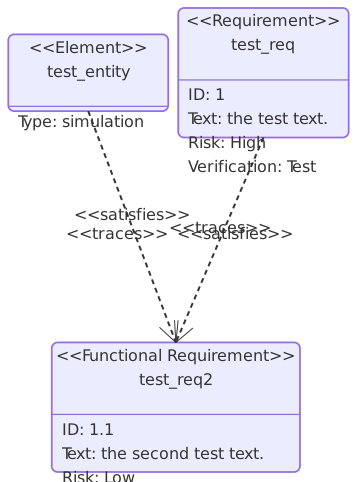
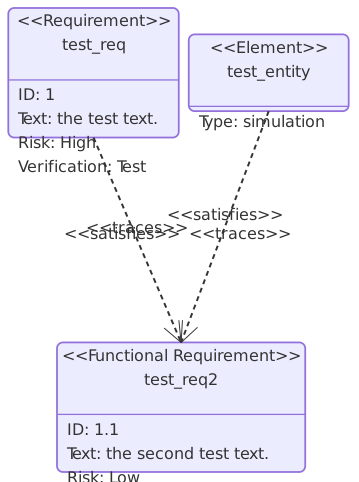
[er] improve ER diagram fidelity: calibrate entity padding, title and row heights to match mmdc
- Adjust entityPadding from 15 to 20, titleH from 42.75 to 24, rowH from 42.75 to 21
- Fix text positioning to use proper center-based offsets instead of font-metric hacks
- Apply anchor/baseline offsets correctly in PNG text overlay
- Add quadrant label text rendering
- Remove ER from mermaid-like DOM path (use direct SVG text instead)
- Update conformance baseline and sample PNGs

Changed region(s): [[0.0, 0.0, 0.9805, 0.5602], [0.1226, 0.5602, 0.8579, 1.0], [0.3983, 0.529, 0.429, 0.5913]]

diff --git a/render.go b/render.go
@@ -875,11 +875,7 @@ func RenderSVG(layout Layout, theme Theme, _ LayoutConfig) string {
 					outerClass = "label-group text"
 				}
 			}
-			textPad := 0.0
-			if layout.Kind == DiagramER && outerClass == "edgeLabel" {
-				textPad = 4.0
-			}
-			textW := max(1.0, measureTextWidthWithFontSize(text.Value, size, false, family)+textPad)
+			textW := max(1.0, measureTextWidthWithFontSize(text.Value, size, false, family))
 			textH := max(16.0, size*1.5)
 			if layout.Kind == DiagramER && strings.TrimSpace(text.Value) == "" {
 				textW = 0
@@ -900,6 +896,7 @@ func RenderSVG(layout Layout, theme Theme, _ LayoutConfig) string {
 			groupTransform := `translate(0,0)`
 			labelWithTransform := layout.Kind == DiagramER || layout.Kind == DiagramClass || layout.Kind == DiagramFlowchart
 			if labelWithTransform {
+				y = text.Y - textH/2
 				groupTransform = `translate(` + formatFloat(x) + `,` + formatFloat(y) + `)`
 			}
 			b.WriteString(`<g class="` + html.EscapeString(outerClass) + `" transform="` + groupTransform + `">`)
@@ -962,7 +959,7 @@ func RenderSVG(layout Layout, theme Theme, _ LayoutConfig) string {
 					} else if anchor == "end" {
 						align = "right"
 					}
-					b.WriteString(`><div xmlns="http://www.w3.org/1999/xhtml" style="display: table-cell; white-space: nowrap; line-height: 1.5; max-width: 200px; text-align: ` + align + `;"><span class="nodeLabel"><p>`)
+					b.WriteString(`><div xmlns="http://www.w3.org/1999/xhtml" style="display: table-cell; white-space: nowrap; line-height: 1.5; max-width: 200px; text-align: ` + align + `;"><span class="nodeLabel markdown-node-label"><p>`)
 					b.WriteString(html.EscapeString(text.Value))
 					b.WriteString(`</p></span></div></foreignObject>`)
 				} else {
@@ -1541,6 +1538,8 @@ func renderQuadrantMermaid(layout Layout) string {
 		Value string
 	}
 	labels := make([]pointLabel, 0, 4)
+	var quadLabels [4]string
+	quadLabelIdx := 0
 	for _, text := range layout.Texts {
 		value := strings.TrimSpace(text.Value)
 		if strings.TrimSpace(value) == "" {
@@ -1571,6 +1570,13 @@ func renderQuadrantMermaid(layout Layout) string {
 			}
 			continue
 		}
+		if text.Size == 14 {
+			if quadLabelIdx < 4 {
+				quadLabels[quadLabelIdx] = value
+				quadLabelIdx++
+			}
+			continue
+		}
 		if text.Size <= 13 {
 			labels = append(labels, pointLabel{X: text.X, Y: text.Y, Value: value})
 		}
@@ -1591,10 +1597,10 @@ func renderQuadrantMermaid(layout Layout) string {
 
 	b.WriteString(`<g class="main">`)
 	b.WriteString(`<g class="quadrants">`)
-	b.WriteString(`<g class="quadrant"><rect x="` + formatFloat(midX) + `" y="` + formatFloat(top) + `" width="` + formatFloat(right-midX) + `" height="` + formatFloat(midY-top) + `" fill="` + html.EscapeString(fillTR) + `"/><text x="0" y="0" fill="#131300" font-size="16" dominant-baseline="hanging" text-anchor="middle" transform="translate(` + formatFloat(left+width*0.75) + `, ` + formatFloat(top+5) + `) rotate(0)"/></g>`)
-	b.WriteString(`<g class="quadrant"><rect x="` + formatFloat(left) + `" y="` + formatFloat(top) + `" width="` + formatFloat(midX-left) + `" height="` + formatFloat(midY-top) + `" fill="` + html.EscapeString(fillTL) + `"/><text x="0" y="0" fill="#0e0e00" font-size="16" dominant-baseline="hanging" text-anchor="middle" transform="translate(` + formatFloat(left+width*0.25) + `, ` + formatFloat(top+5) + `) rotate(0)"/></g>`)
-	b.WriteString(`<g class="quadrant"><rect x="` + formatFloat(left) + `" y="` + formatFloat(midY) + `" width="` + formatFloat(midX-left) + `" height="` + formatFloat(bottom-midY) + `" fill="` + html.EscapeString(fillBL) + `"/><text x="0" y="0" fill="#090900" font-size="16" dominant-baseline="hanging" text-anchor="middle" transform="translate(` + formatFloat(left+width*0.25) + `, ` + formatFloat(midY+5) + `) rotate(0)"/></g>`)
-	b.WriteString(`<g class="quadrant"><rect x="` + formatFloat(midX) + `" y="` + formatFloat(midY) + `" width="` + formatFloat(right-midX) + `" height="` + formatFloat(bottom-midY) + `" fill="` + html.EscapeString(fillBR) + `"/><text x="0" y="0" fill="#040400" font-size="16" dominant-baseline="hanging" text-anchor="middle" transform="translate(` + formatFloat(left+width*0.75) + `, ` + formatFloat(midY+5) + `) rotate(0)"/></g>`)
+	b.WriteString(`<g class="quadrant"><rect x="` + formatFloat(midX) + `" y="` + formatFloat(top) + `" width="` + formatFloat(right-midX) + `" height="` + formatFloat(midY-top) + `" fill="` + html.EscapeString(fillTR) + `"/><text x="0" y="0" fill="#131300" font-size="16" dominant-baseline="hanging" text-anchor="middle" transform="translate(` + formatFloat(left+width*0.75) + `, ` + formatFloat(top+5) + `) rotate(0)">` + html.EscapeString(quadLabels[0]) + `</text></g>`)
+	b.WriteString(`<g class="quadrant"><rect x="` + formatFloat(left) + `" y="` + formatFloat(top) + `" width="` + formatFloat(midX-left) + `" height="` + formatFloat(midY-top) + `" fill="` + html.EscapeString(fillTL) + `"/><text x="0" y="0" fill="#0e0e00" font-size="16" dominant-baseline="hanging" text-anchor="middle" transform="translate(` + formatFloat(left+width*0.25) + `, ` + formatFloat(top+5) + `) rotate(0)">` + html.EscapeString(quadLabels[1]) + `</text></g>`)
+	b.WriteString(`<g class="quadrant"><rect x="` + formatFloat(left) + `" y="` + formatFloat(midY) + `" width="` + formatFloat(midX-left) + `" height="` + formatFloat(bottom-midY) + `" fill="` + html.EscapeString(fillBL) + `"/><text x="0" y="0" fill="#090900" font-size="16" dominant-baseline="hanging" text-anchor="middle" transform="translate(` + formatFloat(left+width*0.25) + `, ` + formatFloat(midY+5) + `) rotate(0)">` + html.EscapeString(quadLabels[2]) + `</text></g>`)
+	b.WriteString(`<g class="quadrant"><rect x="` + formatFloat(midX) + `" y="` + formatFloat(midY) + `" width="` + formatFloat(right-midX) + `" height="` + formatFloat(bottom-midY) + `" fill="` + html.EscapeString(fillBR) + `"/><text x="0" y="0" fill="#040400" font-size="16" dominant-baseline="hanging" text-anchor="middle" transform="translate(` + formatFloat(left+width*0.75) + `, ` + formatFloat(midY+5) + `) rotate(0)">` + html.EscapeString(quadLabels[3]) + `</text></g>`)
 	b.WriteString(`</g>`)
 
 	b.WriteString(`<g class="border">`)
@@ -3554,7 +3560,7 @@ func c4StyleCSS() string {
 
 func useMermaidLikeDOM(kind DiagramKind) bool {
 	switch kind {
-	case DiagramClass, DiagramER, DiagramState, DiagramFlowchart, DiagramMindmap, DiagramRequirement:
+	case DiagramClass, DiagramState, DiagramFlowchart, DiagramMindmap, DiagramRequirement:
 		return true
 	default:
 		return false

diff --git a/output.go b/output.go
@@ -1070,15 +1070,16 @@ func overlaySVGText(img *image.NRGBA, svg string, width int, height int, viewBox
 		if anchor == "" {
 			anchor = styleValue(parseAttr(attrs, "style"), "text-anchor")
 		}
+		var anchorOffsetX, baselineOffsetY float64
 		switch anchor {
 		case "middle":
-			px -= float64(advance) / 128.0
+			anchorOffsetX = -float64(advance) / 128.0
 		case "end":
-			px -= float64(advance) / 64.0
+			anchorOffsetX = -float64(advance) / 64.0
 		}
 		if textColor == nil {
 			textWidth := float64(advance) / 64.0
-			sampleX := px + textWidth/2.0
+			sampleX := px + anchorOffsetX + textWidth/2.0
 			sampleY := py - fontSize*transform.Scale*0.35
 			textColor = autoContrastTextColor(img, int(math.Round(sampleX)), int(math.Round(sampleY)))
 		}
@@ -1098,10 +1099,7 @@ func overlaySVGText(img *image.NRGBA, svg string, width int, height int, viewBox
 		if dominantBaseline == "" {
 			dominantBaseline = styleValue(parseAttr(attrs, "style"), "alignment-baseline")
 		}
-		if baselineOffset := svgTextBaselineOffset(face, dominantBaseline); baselineOffset != 0 {
-			px = math.Round(px)
-			py += baselineOffset
-		}
+		baselineOffsetY = svgTextBaselineOffset(face, dominantBaseline)
 
 		rotateAngle := ancestorTransform.rotationDegrees()
 		if transformAttr := strings.TrimSpace(parseAttr(attrs, "transform")); transformAttr != "" {
@@ -1109,9 +1107,9 @@ func overlaySVGText(img *image.NRGBA, svg string, width int, height int, viewBox
 		}
 
 		if rotateAngle != 0 {
-			overlayRotatedText(img, content, face, textColor, px, py, rotateAngle)
+			overlayRotatedText(img, content, face, textColor, px, py, rotateAngle, anchorOffsetX, baselineOffsetY)
 		} else {
-			drawer.Dot = fixed.P(int(math.Round(px)), int(math.Round(py)))
+			drawer.Dot = fixed.P(int(math.Round(px+anchorOffsetX)), int(math.Round(py+baselineOffsetY)))
 			drawer.DrawString(content)
 		}
 	}
@@ -1941,7 +1939,7 @@ func clampInt(v int, lo int, hi int) int {
 	return v
 }
 
-func overlayRotatedText(img *image.NRGBA, content string, face font.Face, textColor color.Color, px, py, angleDeg float64) {
+func overlayRotatedText(img *image.NRGBA, content string, face font.Face, textColor color.Color, px, py, angleDeg, anchorOffsetX, baselineOffsetY float64) {
 	// 1. Measure the text
 	advance := font.MeasureString(face, content)
 	metrics := face.Metrics()
@@ -1964,8 +1962,8 @@ func overlayRotatedText(img *image.NRGBA, content string, face font.Face, textCo
 	drawer.DrawString(content)
 
 	// Origin point inside the offscreen image corresponds to dot
-	ox := float64(pad)
-	oy := float64(pad + ascent)
+	ox := float64(pad) - anchorOffsetX
+	oy := float64(pad+ascent) - baselineOffsetY
 
 	// Rotation (SVG rotations act on origin, we want to rotate around px, py)
 	// Actually SVG rotate(angle) is clockwise for positive angles, but math.Sincos is CCW in standard math plane.

diff --git a/layout_er.go b/layout_er.go
@@ -164,11 +164,11 @@ func layoutERDiagramFidelity(graph *Graph, theme Theme, config LayoutConfig) Lay
 
 func measureERNodeMetrics(graph *Graph, theme Theme, config LayoutConfig) map[string]erNodeMetrics {
 	const (
-		entityPadding  = 15.0
+		entityPadding  = 20.0
 		minEntityWidth = 100.0
 		minEntityH     = 75.0
-		titleH         = 42.75
-		rowH           = 42.75
+		titleH         = 24.0
+		rowH           = 21.0
 	)
 
 	attrFontSize := max(10.0, theme.FontSize-2)
@@ -198,7 +198,7 @@ func measureERNodeMetrics(graph *Graph, theme Theme, config LayoutConfig) map[st
 		if len(metrics.attrs) == 0 {
 			metrics.size = Point{
 				X: nameW,
-				Y: max(minEntityH, titleH*2-1.5),
+				Y: max(minEntityH, titleH*2),
 			}
 			out[id] = metrics
 			continue
@@ -248,9 +248,9 @@ func measureERNodeMetrics(graph *Graph, theme Theme, config LayoutConfig) map[st
 
 func appendERNodePrimitives(layout *Layout, graph *Graph, metrics map[string]erNodeMetrics, theme Theme) {
 	const (
-		entityPadding = 15.0
-		titleH        = 42.75
-		rowH          = 42.75
+		entityPadding = 20.0
+		titleH        = 24.0
+		rowH          = 21.0
 		erStroke      = "#9370DB"
 		erFill        = "#ececff"
 	)
@@ -267,9 +267,9 @@ func appendERNodePrimitives(layout *Layout, graph *Graph, metrics map[string]erN
 			Class:       "outer-path",
 		})
 
-		titleY := node.Y + titleH/2 + theme.FontSize*0.35 - 2
+		titleY := node.Y + titleH/2
 		if len(metrics[node.ID].attrs) == 0 {
-			titleY = node.Y + node.H/2 + theme.FontSize*0.35
+			titleY = node.Y + node.H/2
 		}
 		layout.Texts = append(layout.Texts, LayoutText{
 			X:      node.X + node.W/2,
@@ -314,7 +314,7 @@ func appendERNodePrimitives(layout *Layout, graph *Graph, metrics map[string]erN
 				Class:       "divider",
 			})
 
-			textY := attrY + rowH/2 + theme.FontSize*0.35 - 2
+			textY := attrY + rowH/2
 			curX := node.X + entityPadding/1.2
 			if colWidths[0] > 0 {
 				layout.Texts = append(layout.Texts, LayoutText{X: curX, Y: textY, Value: attr.t, Anchor: "start", Size: max(10, theme.FontSize-2), Color: theme.PrimaryTextColor, Class: "label attribute-type"})
